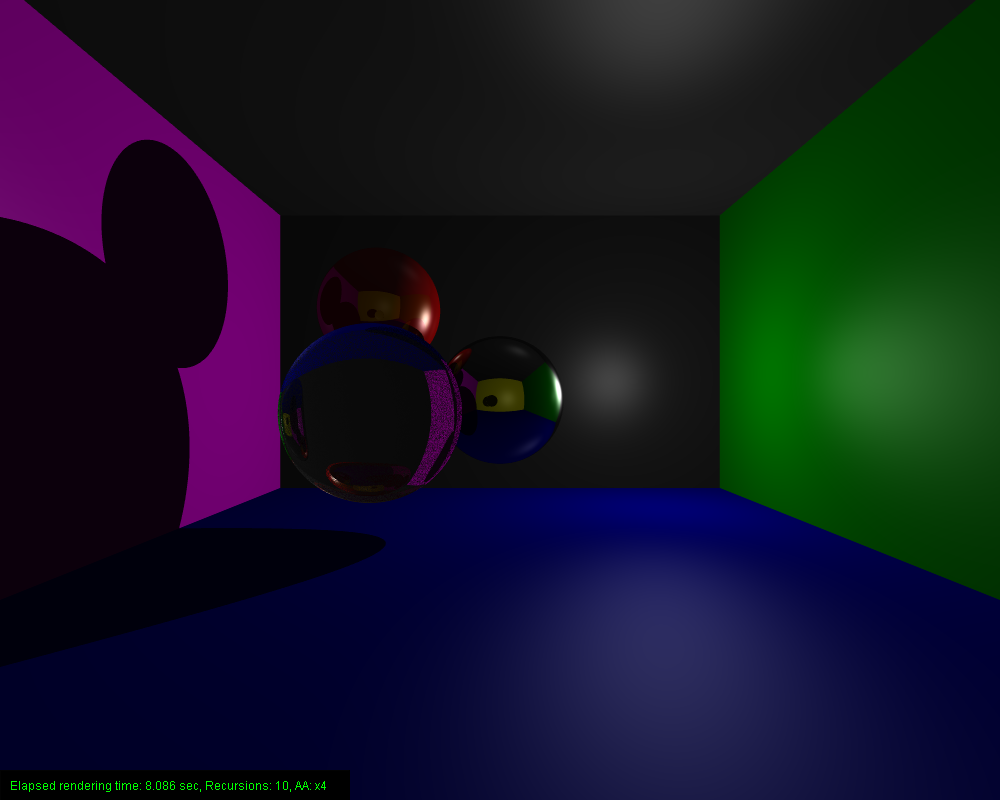
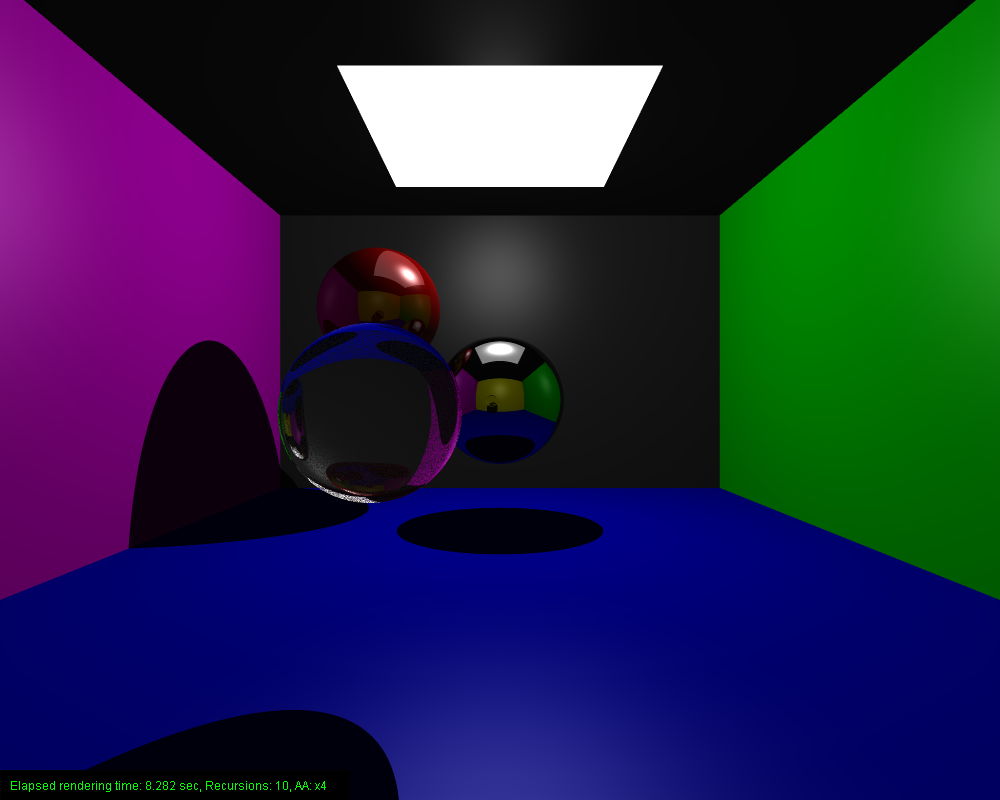
Rectangles!

diff --git a/VCG_Raytracer/src/scene/shape/Rectangle.java b/VCG_Raytracer/src/scene/shape/Rectangle.java
@@ -3,6 +3,7 @@ package scene.shape;
 import material.Material;
 import raytracer.Intersection;
 import raytracer.Ray;
+import utils.algebra.Vec2;
 import utils.algebra.Vec3;
 import utils.io.Log;
 
@@ -10,8 +11,8 @@ public class Rectangle extends Plane {
 
     private Vec3 a;
     private Vec3 b;
-    private float by_minus_bx;
-    private float ax_dividedBy_ay;
+//    private float by_minus_bx;
+//    private float ax_dividedBy_ay;
 
     public Rectangle(Vec3 pos, Vec3 a, Vec3 b, Material material) {
 
@@ -22,11 +23,11 @@ public class Rectangle extends Plane {
         this.a = a;
         this.b = b;
 
-        by_minus_bx = b.y - b.x;
-        ax_dividedBy_ay = a.x / a.y;
-
-        Log.print(this, "by_minus_bx: " + by_minus_bx);
-        Log.print(this, "ax_dividedby_ay: " + ax_dividedBy_ay);
+//        by_minus_bx = b.y - b.x;
+//        ax_dividedBy_ay = a.x / a.y;
+//
+//        Log.print(this, "by_minus_bx: " + by_minus_bx);
+//        Log.print(this, "ax_dividedby_ay: " + ax_dividedBy_ay);
 
     }
 
@@ -36,35 +37,82 @@ public class Rectangle extends Plane {
 
         if (planeIntersection == null) return null;
 
-        Vec3 intersecPoint = planeIntersection.interSectionPoint;
+        Vec3 intersecPoint = planeIntersection.interSectionPoint.sub(mPosition);
+        Vec2 pA = null, pB = null, pI = null;
 
-//        float tb = ((intersecPoint.y * ax_dividedBy_ay) - intersecPoint.x) / (by_minus_bx);
-        float tb = (((intersecPoint.y - mPosition.y) * ax_dividedBy_ay) - intersecPoint.x + mPosition.x) / (by_minus_bx);
-        float ta = (-tb * b.x + intersecPoint.x - mPosition.x) / a.x;
+        //projecting to axis planes
+        float x = Math.abs(normal.x), y = Math.abs(normal.y), z = Math.abs(normal.z);
+        if (x >= y && x >= z) {
+            //x is biggest normal component -> project to ZY-plane
+            pA = new Vec2(a.y, a.z);
+            pB = new Vec2(b.y, b.z);
+            pI = new Vec2(intersecPoint.y, intersecPoint.z);
+        } else if (y >= x && y >= z) {
+            //y is biggest normal component -> project to XZ-plane
+            pA = new Vec2(a.x, a.z);
+            pB = new Vec2(b.x, b.z);
+            pI = new Vec2(intersecPoint.x, intersecPoint.z);
+        } else if (z >= x && z >= y) {
+            //z is biggest normal component -> project to XY-plane
+            pA = new Vec2(a.x, a.y);
+            pB = new Vec2(b.x, b.y);
+            pI = new Vec2(intersecPoint.x, intersecPoint.y);
+        }
 
-        //
-//        intersecPoint = mPosition.add(a.multScalar(ta).add(b.multScalar(tb)));
+        if (isWithinProjectedPlane(pA, pB, pI)) return planeIntersection;
 
-//        intersecPoint.x = ta * a.x + tb * b.x + mPosition.x;
-//        intersecPoint.y = ta * a.y + tb * b.y;
-
-
-//        intersecPoint.y = ((-tb * b.x + intersecPoint.x) / a.x) * a.y + tb * b.y;
-
-//        Log.print(this, "ta: " + ta);
-//        Log.print(this, "tb: " + tb);
-
-        Vec3 checkintersecPoint = mPosition.add(a.multScalar(ta).add(b.multScalar(tb)));
-//
-//        Log.print(this, "intersecPoint:     " + intersecPoint);
-//        Log.print(this, "check with result: " + checkintersecPoint);
-
-        if (Math.abs(ta) >= 1 || Math.abs(tb) >= 1) return null;
-
-//        Log.print(this, "rect intersect");
-
-        return planeIntersection;
+        return null;
     }
 
+    private boolean isWithinProjectedPlane(Vec2 pA, Vec2 pB, Vec2 pI) {
 
+        Vec2 c1 = new Vec2(pA.x + pB.x, pA.y + pB.y);
+        Vec2 c2 = new Vec2(-(pA.x + pB.x), -(pA.y + pB.y));
+
+        return withinValues(c1.x, c2.x, pI.x) && withinValues(c1.y, c2.y, pI.y);
+    }
+
+    private boolean withinValues(float border1, float border2, float value) {
+
+        if (border1 < border2) {
+            return value >= border1 && value <= border2;
+        } else {
+            return value >= border2 && value <= border1;
+        }
+    }
+
+//    public Intersection intersect(Ray ray) {
+//        Intersection planeIntersection = super.intersect(ray);
+//
+//        if (planeIntersection == null) return null;
+//
+//        Vec3 intersecPoint = planeIntersection.interSectionPoint;
+//
+////        float tb = ((intersecPoint.y * ax_dividedBy_ay) - intersecPoint.x) / (by_minus_bx);
+//        float tb = (((intersecPoint.y - mPosition.y) * ax_dividedBy_ay) - intersecPoint.x + mPosition.x) / (by_minus_bx);
+//        float ta = (-tb * b.x + intersecPoint.x - mPosition.x) / a.x;
+//
+//        //
+////        intersecPoint = mPosition.add(a.multScalar(ta).add(b.multScalar(tb)));
+//
+////        intersecPoint.x = ta * a.x + tb * b.x + mPosition.x;
+////        intersecPoint.y = ta * a.y + tb * b.y;
+//
+//
+////        intersecPoint.y = ((-tb * b.x + intersecPoint.x) / a.x) * a.y + tb * b.y;
+//
+////        Log.print(this, "ta: " + ta);
+////        Log.print(this, "tb: " + tb);
+//
+////        Vec3 checkintersecPoint = mPosition.add(a.multScalar(ta).add(b.multScalar(tb)));
+////
+////        Log.print(this, "intersecPoint:     " + intersecPoint);
+////        Log.print(this, "check with result: " + checkintersecPoint);
+//
+//        if (Math.abs(ta) >= 1 || Math.abs(tb) >= 1) return null;
+//
+////        Log.print(this, "rect intersect");
+//
+//        return planeIntersection;
+//    }
 }

diff --git a/VCG_Raytracer/src/Main/Main.java b/VCG_Raytracer/src/Main/Main.java
@@ -118,10 +118,15 @@ public class Main {
 
 //        scene.createShape(new Sphere(new Vec3(5, 1, -3.5f), 1.1f, new Phong(RgbColor.GREEN, 0.2f, 0.0f, 4)));
 
+//        scene.createLight(new Light(
+//                new Vec3(3, 0.5f, 6.5f),
+//                RgbColor.WHITE,
+//                0.4f));
+
         scene.createLight(new Light(
-                new Vec3(3, 0.5f, 6.5f),
+                new Vec3(0, 3.7f, 8f),
                 RgbColor.WHITE,
-                0.4f));
+                0.5f));
 
 //        scene.createLight(new Light(
 //                new Vec3(0, 4.5f, 0f),
@@ -256,18 +261,18 @@ public class Main {
                         1)));
 
 //        Ceiling light rect
-//        scene.createShape(new Rectangle(
-//                new Vec3(0, 3.7f, 0),    //pos
-//                new Vec3(-2, .0f, 0),     //a
-//                new Vec3(0, .0f, -2),     //b
-//                new Phong(RgbColor.WHITE,        //ambient
-//                        RgbColor.WHITE,          //diffuse
-//                        RgbColor.BLACK,
-//                        new RgbColor(0.1f, 0.1f,0.1f),       //specular
-//                        12,
-//                        0.f,
-//                        1,
-//                        1)));
+        scene.createShape(new Rectangle(
+                new Vec3(0, 4.1f, 8),    //pos
+                new Vec3(-2, .0f, 0),     //a
+                new Vec3(0, .0f, -2),     //b
+                new Phong(RgbColor.WHITE,        //ambient
+                        RgbColor.WHITE,          //diffuse
+                        RgbColor.WHITE,
+                        RgbColor.BLACK,       //specular
+                        12,
+                        0.f,
+                        1,
+                        1)));
     }
 
     private static int getAntiAliasingLevel() {
